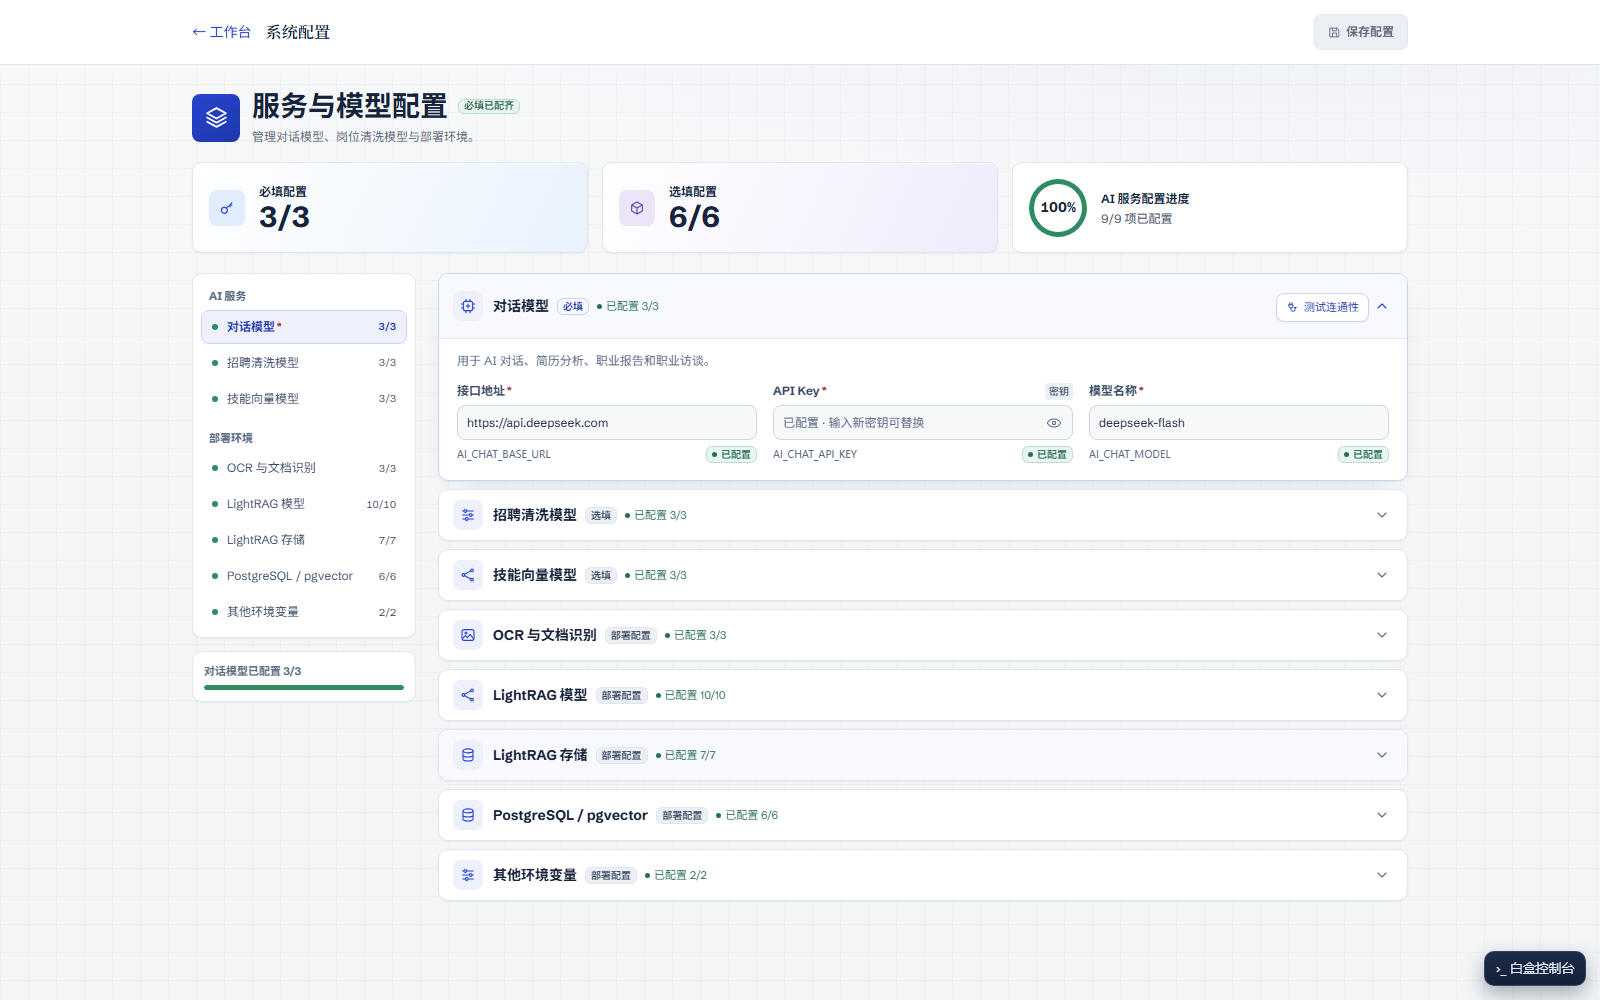
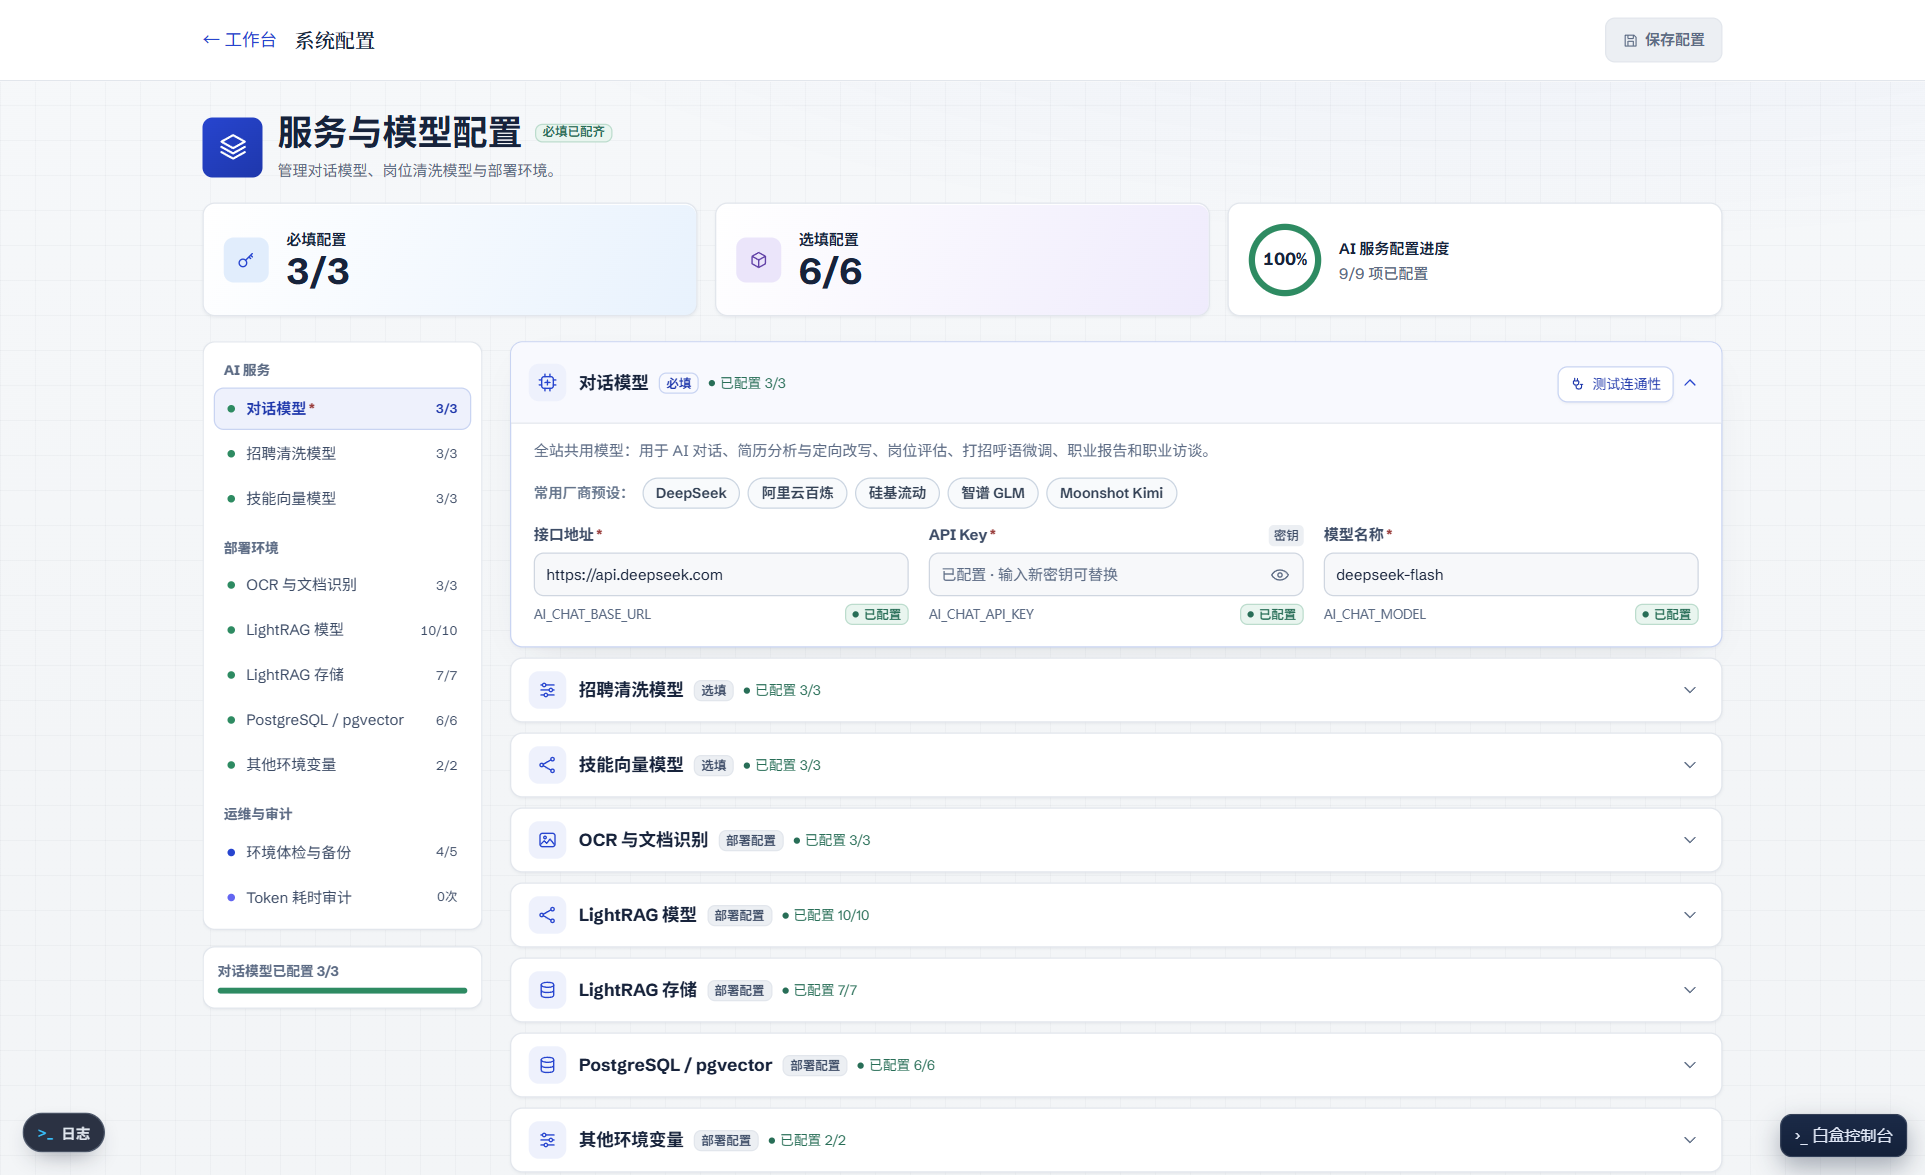
docs: refresh README screenshots and trim stale gallery
Recapture the career report wizard (resume selector, full-width layout) and system settings (provider presets, diagnostics, token audit) screenshots, and slim the gallery down to the six core views. Remove outdated per-stage pipeline, learning, assistant and report-center images.

diff --git a/README.md b/README.md
@@ -191,44 +191,17 @@ flowchart LR
 
 截图取自本机个人工作区（敏感信息已脱敏），界面以实际运行版本为准。
 
-### 核心板块主界面
-
 | 🏛 职业工作台（总览台） | 🚀 岗位全链路流水线 |
 | :---: | :---: |
 | [![职业工作台：求职工具与行业快报](asserts/workspace.png)](asserts/workspace.png) | [![全链路看板：漏斗、执行导航与岗位状态](asserts/pipeline.png)](asserts/pipeline.png) |
 
-| 🗺 多智能体规划报告 | 📄 简历工坊与排版预览 |
+| 🗺 多智能体规划报告（简历自选） | 📄 简历工坊 |
 | :---: | :---: |
 | [![规划报告：目标岗位、求职偏好与简历自选](asserts/report-wizard.png)](asserts/report-wizard.png) | [![我的简历：表单化编辑与多版本管理](asserts/resume-editor.png)](asserts/resume-editor.png) |
 
-| 🧩 测评中心 | 📈 成长规划 |
+| 🧩 测评中心 | ⚙ 系统配置（模型预设 · 体检 · 审计） |
 | :---: | :---: |
-| [![测评中心：六项测评与完成记录](asserts/assessments.png)](asserts/assessments.png) | [![成长规划：学习任务板、打卡与热力图](asserts/learning.png)](asserts/learning.png) |
-
-| 💬 AI 生涯助手 | ⚙ 系统配置与体检审计 |
-| :---: | :---: |
-| [![AI 生涯助手：记忆与资料、无痕对话](asserts/assistant.png)](asserts/assistant.png) | [![系统配置：模型预设、体检与审计](asserts/settings.png)](asserts/settings.png) |
-
-<details>
-<summary>📂 展开查看岗位流水线各阶段抽屉与报告中心截图（8 张）</summary>
-
-| 平台采集 | 规则清洗 |
-| :---: | :---: |
-| [![平台采集：登录检查、关键词、城市与手动导入](asserts/pipeline-collect.png)](asserts/pipeline-collect.png) | [![规则清洗：硬规则与 AI 语义规则](asserts/pipeline-cleaning.png)](asserts/pipeline-cleaning.png) |
-
-| AI 评估 | 定向简历改写 |
-| :---: | :---: |
-| [![AI 评估：八维权重、批次执行与分流](asserts/pipeline-evaluation.png)](asserts/pipeline-evaluation.png) | [![简历改写：基准简历与定向稿对比](asserts/pipeline-rewrite.png)](asserts/pipeline-rewrite.png) |
-
-| 打招呼语 | 人工审批 |
-| :---: | :---: |
-| [![打招呼语：海投母本与批量生成](asserts/pipeline-greeting.png)](asserts/pipeline-greeting.png) | [![人工审批：投递闸与放行队列](asserts/pipeline-approval.png)](asserts/pipeline-approval.png) |
-
-| 投递队列 | 报告中心 |
-| :---: | :---: |
-| [![投递队列：dry-run、投递包与失败重试](asserts/pipeline-delivery.png)](asserts/pipeline-delivery.png) | [![报告中心：最新版本与历史版本](asserts/report-center.png)](asserts/report-center.png) |
-
-</details>
+| [![测评中心：六项测评与完成记录](asserts/assessments.png)](asserts/assessments.png) | [![系统配置：模型预设、体检与审计](asserts/settings.png)](asserts/settings.png) |
 
 ---
 
